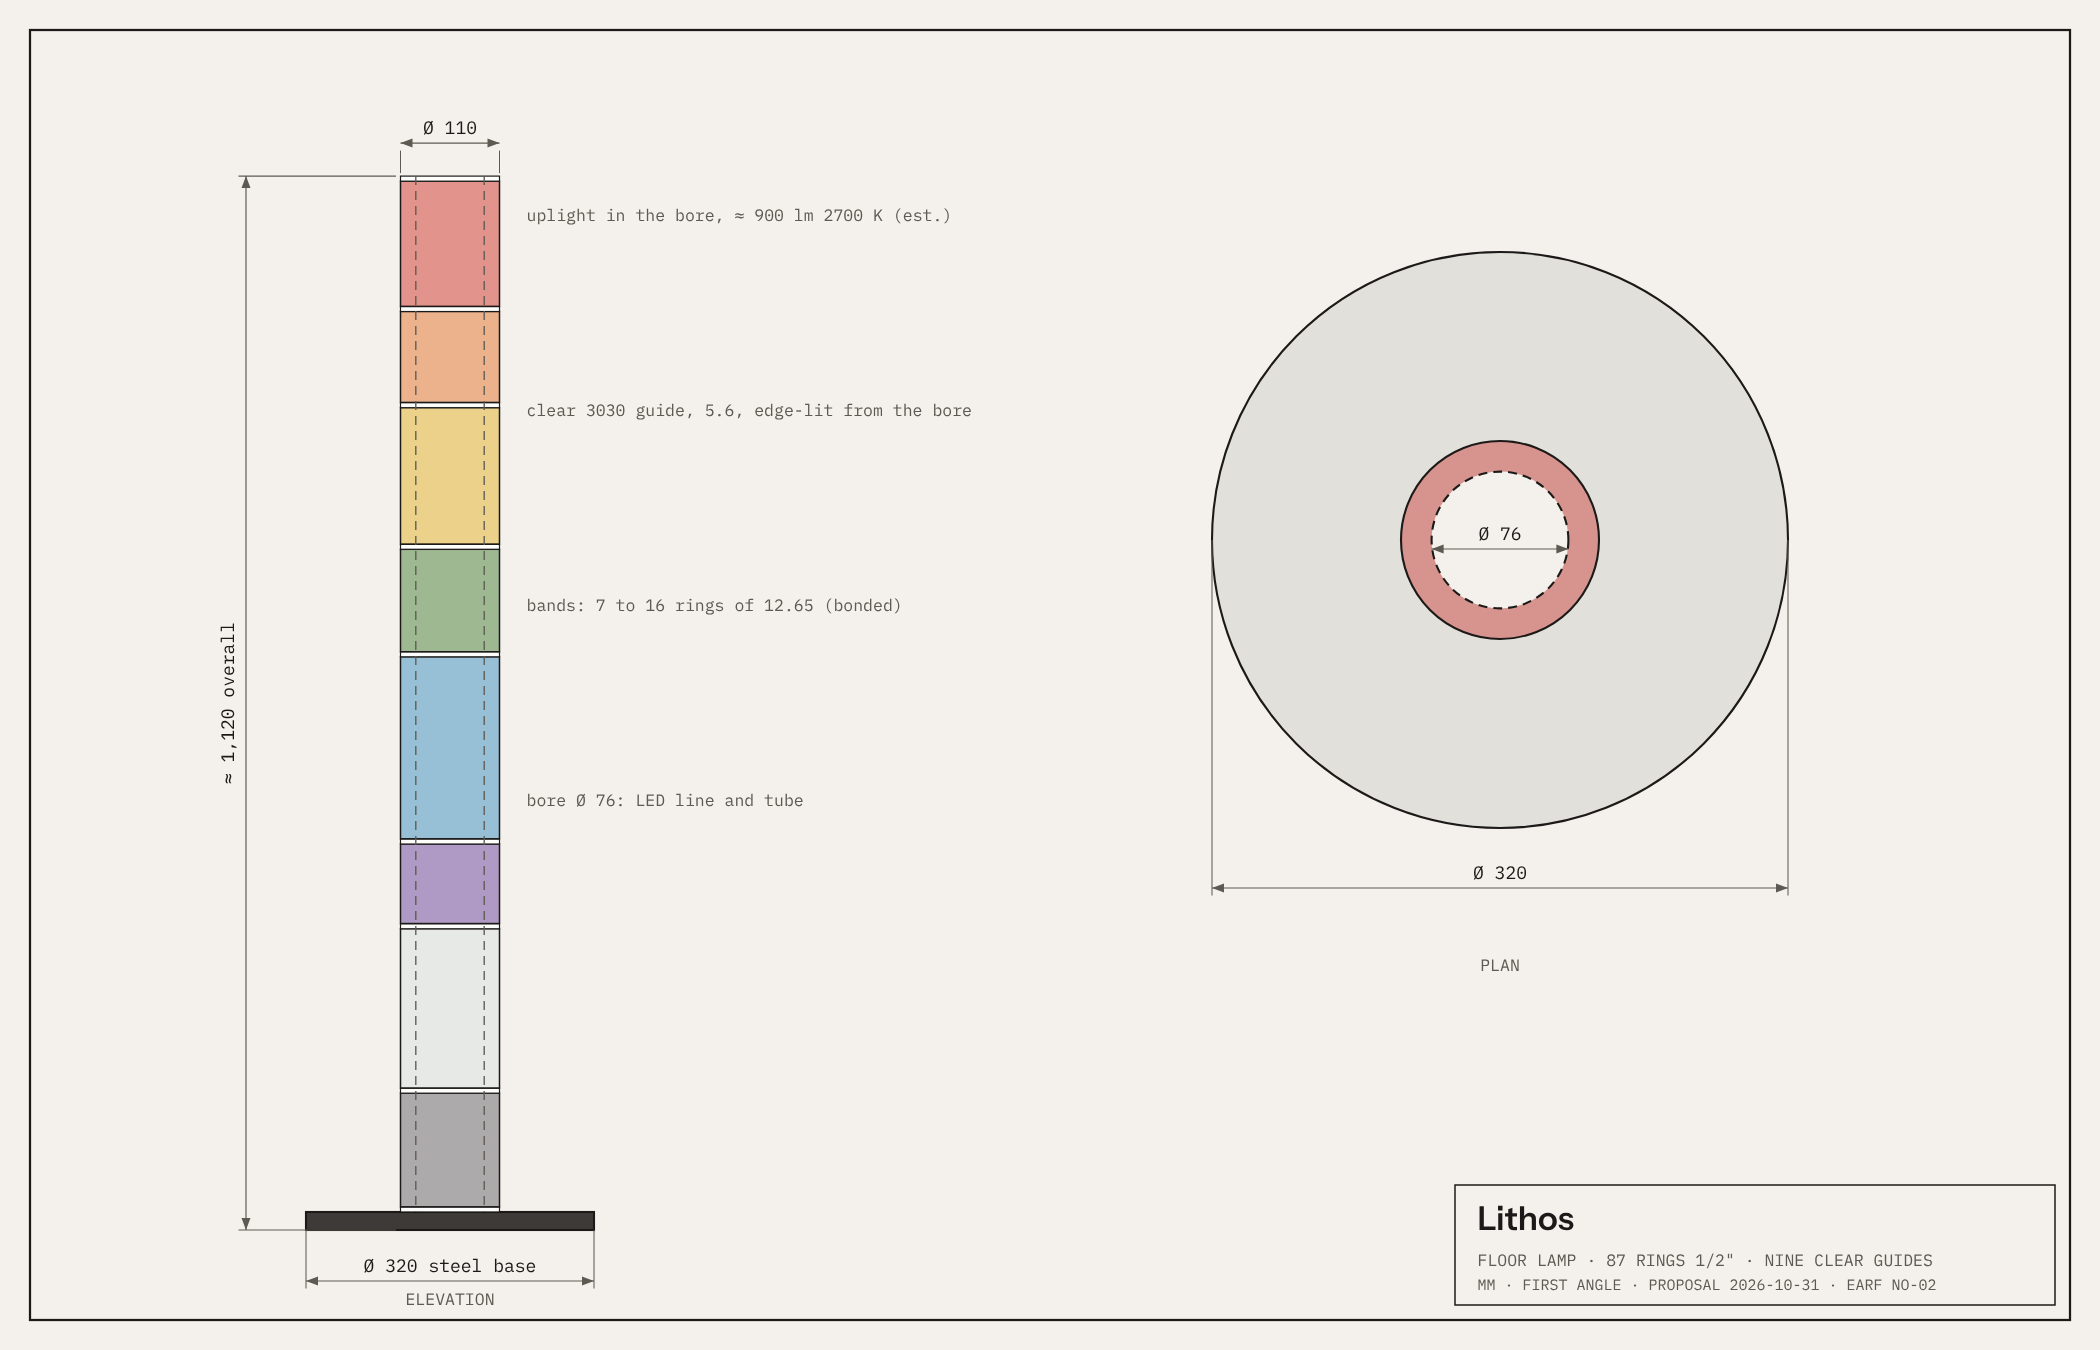
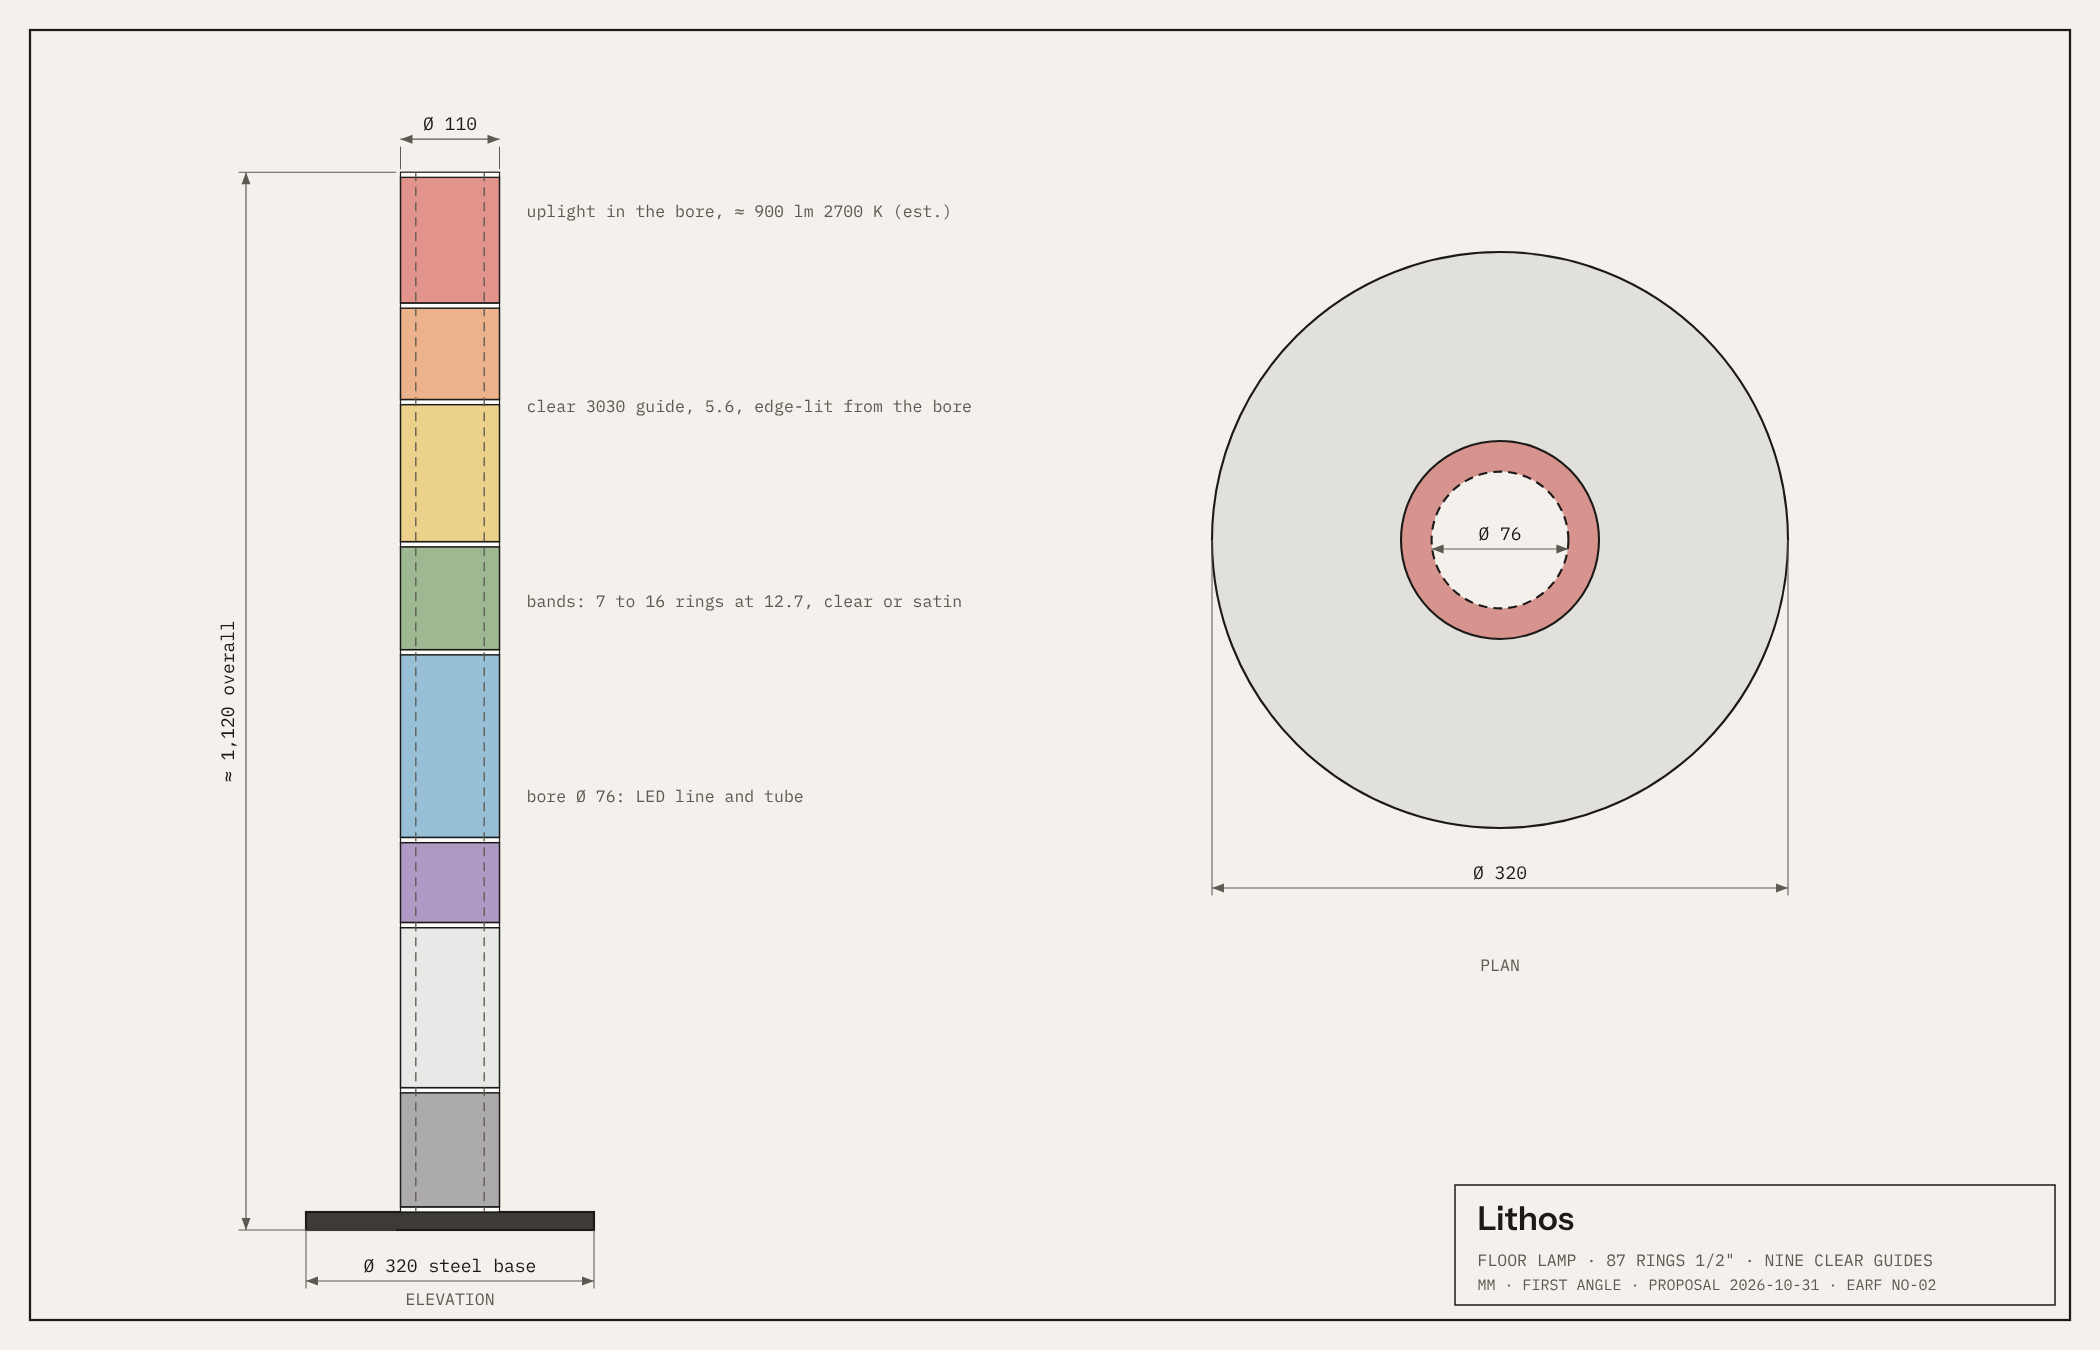
New objects: Lithos matched to the lamps lane's Core Sample (12.7 pitch, filament, clear and satin bands); captions name the near-black sections
Claude-Session: https://claude.ai/code/session_01BAaPTm6ZnW6Wr5zqpr5BWJ

diff --git a/spinoffs/barkhorn/brandbook/newobjects/six.py b/spinoffs/barkhorn/brandbook/newobjects/six.py
@@ -24,16 +24,18 @@ OBJECTS = [
        ('A felt-lined card tube with the tint card', lambda: 4)],
   price=135, role='The entry price: a gift, a Kickstarter add-on, a thing for every record shop counter.'),
  dict(key='lithos', name='Lithos', what='A floor lamp, a core sample', tag='Rock, in layers: a drill core stood on end.',
-  concept=("A column 110 mm across and 1.12 m tall, made of 87 rings of half-inch cast sheet in eight bands of the line's tints, in "
-           "uneven thicknesses like a real core. Between every band sits a quarter-inch layer of near-clear 3030 sheet. A warm LED line runs "
-           "inside a white tube in the bore, slotted only where the clear layers are, so light enters the clear layers and nothing else; their "
+  concept=("A column 110 mm across and 1.12 m tall, made of 87 rings of half-inch cast sheet at Core Sample's 12.7 mm pitch in eight bands of the line's tints, in "
+           "uneven thicknesses like a real core. Between every band sits a quarter-inch layer of near-clear 3030 sheet. Its light is Core Sample's own "
+           "filament (the lamps lane's table lamp, which Lithos is the big sibling of): a dim-to-warm LED strip on an aluminum spine inside an "
+           "opal tube, here masked except where the clear layers are, so light enters the clear layers and nothing else. As on Core Sample, "
+           "the bands alternate buffed clear and bead-blasted satin; their "
            "polished outer edges glow: **the boundaries between the strata are lines of light**, while the tinted bands stay deep (a deep tint "
            "lit from inside through 17 mm would barely glow: TruCast's 2423 passes 14% at 3.2 mm). An LED uplight in the top of the bore washes the ceiling, which is the light you "
            "read by. The column stands on a blackened steel disc."),
   dims=[('Column', 'Ø 110 mm outside, Ø 76 mm bore, 1,100 mm of acrylic'), ('Height overall', 'about 1,120 mm'), ('Base', 'blackened steel, Ø 320 × 20 mm'),
-        ('Bands', 'eight tints, 6 to 16 rings each (87 rings of 12.7 mm), with nine 5.6 mm clear light-guide layers'),
-        ('Light', 'uplight about 900 lm, 2700 K, CRI 90 (est.); a glow line about 6 W inside a white tube slotted at each clear guide; two channels, dimmable'), ('Weight', 'about 21 kg (acrylic 7 kg, base 12.6 kg; est.)'),
-        ('Listing', 'UL 153 (a portable lamp), with its own Class 2 driver')],
+        ('Bands', 'eight tints, 7 to 16 rings each (87 rings at 12.7 mm, as Core Sample), each band buffed clear or bead-blasted satin, with nine 5.6 mm clear light-guide layers'),
+        ('Light', 'uplight about 900 lm, 2700 K, CRI 90 (est.); 24 V plug-in; Core Sample\'s filament (dim-to-warm strip, aluminum spine, opal tube) masked except at each clear guide; two channels, dimmable'), ('Weight', 'about 21 kg (acrylic 7 kg, base 12.6 kg; est.)'),
+        ('Listing', 'UL 153 (a portable lamp), with its own Class 2 driver; heat checked against acrylic\'s limit, as Core Sample\'s spine runs about 64 °C against 70 °C')],
   process='Rings laser- or CNC-cut from sheet (their cores become Moho); bonded in eight bands with the clear guides between, annealed; bored and turned true; the outside polished; stacked on a threaded aluminum tube through the base.',
   bom=[('Sheet: 87 rings from 115 mm squares of 1/2"', lambda: sheet('1/2', 87 * 0.115**2)), ('Clear 3030 guides: nine from 1/4"', lambda: sheet('1/4', 9 * 0.115**2)),
        ('Ring cutting, outsourced, about $2 each', lambda: 96 * 2), ('Lamination in bands: 3 h', lambda: RATE * 3), ('Boring, turning, polishing: 3 h', lambda: RATE * 3),

diff --git a/spinoffs/barkhorn/brandbook/newobjects/build_page.py b/spinoffs/barkhorn/brandbook/newobjects/build_page.py
@@ -13,11 +13,11 @@ def md(t):
     return re.sub(r'\*\*(.+?)\*\*', r'<strong>\1</strong>', t)
 
 CAP = {
- 'moho': 'Render. Moho on a record: Ember, Dust and Acid under a Fog top, the brass core seen through them.',
- 'lithos': 'Render. Lithos lit: the clear guides glow between the eight bands; the uplight washes the ceiling.',
- 'ionos': 'Render. Ionos in Ice, its clear middle layer lit as a line; the top disc turns to tune.',
- 'cairn': 'Render. Cairn in Fog with one layer of Ember; sawn sides satin, faces polished.',
- 'bedrock': 'Render. Bedrock in Dust, the inch-thick end-plates stepped, three steel rails.',
+ 'moho': 'Render. Moho on a record: Ember, Dust and Acid under a Fog top, the brass core seen through them. Through the full 66 mm, stock 2423 Ember reads near-black, as it would in hand.',
+ 'lithos': 'Render. Lithos lit: the clear guides glow between the eight bands. In stock sheet the deep bands (Ember, Haze, Poison, Smoke) read near-black, as here. Rendered before the switch to Core Sample\'s filament and its clear-and-satin bands.',
+ 'ionos': 'Render. Ionos in Ice, its clear middle layer lit as a line; the top disc turns to tune. Through 200 mm of Ice the block reads blue-gray; the color lives at the edges.',
+ 'cairn': 'Render. Cairn in Fog with one layer of Ember; faces and sides polished. Seen edge-on, the Ember slab reads near-black.',
+ 'bedrock': 'Render. Bedrock in Dust, the inch-thick end-plates stepped, three steel rails. Dust (2422) stays warm and clear at this thickness.',
  'relief': 'Render. Relief in Fog on a white backing: the green deepens with each layer, like a sea chart in glass.',
  'meridian': 'Render. Meridian at ten past two: the Acid hour disc and the Ice minute disc cross, and where they overlap the light is green.',
 }

diff --git a/spinoffs/barkhorn/brandbook/newobjects/drawings.py b/spinoffs/barkhorn/brandbook/newobjects/drawings.py
@@ -81,7 +81,7 @@ def lithos():
     g = 5.6
     for i, (n, t) in enumerate(zip(counts, tints)):
         d.rect(x0 - 55 * k, y - g * k, 110 * k, g * k, fill='#FFFFFF', op=0.9, sw=0.8); y -= g * k
-        hh = n * 12.65 * k
+        hh = n * 12.7 * k
         d.rect(x0 - 55 * k, y - hh, 110 * k, hh, fill=TINT[t], op=0.45, sw=1); y -= hh
     d.rect(x0 - 55 * k, y - g * k, 110 * k, g * k, fill='#FFFFFF', op=0.9, sw=0.8); y -= g * k
     top = y
@@ -91,7 +91,7 @@ def lithos():
     d.dimh(x0 - 160 * k, x0 + 160 * k, base_y + 34, 'Ø 320 steel base', ext_from=base_y)
     d.text(x0 + 55 * k + 18, top + 30, 'uplight in the bore, ≈ 900 lm 2700 K (est.)', 11, 'start', MUTED)
     d.text(x0 + 55 * k + 18, top + 160, 'clear 3030 guide, 5.6, edge-lit from the bore', 11, 'start', MUTED)
-    d.text(x0 + 55 * k + 18, top + 290, 'bands: 7 to 16 rings of 12.65 (bonded)', 11, 'start', MUTED)
+    d.text(x0 + 55 * k + 18, top + 290, 'bands: 7 to 16 rings at 12.7, clear or satin', 11, 'start', MUTED)
     d.text(x0 + 55 * k + 18, top + 420, 'bore Ø 76: LED line and tube', 11, 'start', MUTED)
     cx, cy, s = 1000, 360, 1.2
     d.circle(cx, cy, 160 * s, fill=INK, op=0.08); d.circle(cx, cy, 55 * s, fill=TINT['ember'], op=0.4); d.circle(cx, cy, 38 * s, fill=PAPER, dash='6 4')

diff --git a/spinoffs/barkhorn/brandbook/newobjects/render_objects.py b/spinoffs/barkhorn/brandbook/newobjects/render_objects.py
@@ -269,8 +269,8 @@ def shot_lithos(sc):
         guides.append(z)
     for n, tn in zip(counts, tints):
         guide(z); z += 0.0056
-        ring(f'band{tn}', 0.055, 0.038, z + GAP / 2, n * 0.01265 - GAP, acrylic(tn), bond_top=acrylic(tn, 'bond'), bond_bottom=acrylic(tn, 'bond'))
-        z += n * 0.01265
+        ring(f'band{tn}', 0.055, 0.038, z + GAP / 2, n * 0.0127 - GAP, acrylic(tn), bond_top=acrylic(tn, 'bond'), bond_bottom=acrylic(tn, 'bond'))
+        z += n * 0.0127
     guide(z); z += 0.0056
     top = z
     # the bore: an aluminium tube, slotted at each guide, with the LED line inside: light leaves only into the guides

diff --git a/spinoffs/barkhorn/brandbook/newobjects/SIX.md b/spinoffs/barkhorn/brandbook/newobjects/SIX.md
@@ -46,17 +46,17 @@ Four discs of half-inch cast sheet, bonded into one puck 66 mm across and 51 mm 
 
 *Rock, in layers: a drill core stood on end.*
 
-A column 110 mm across and 1.12 m tall, made of 87 rings of half-inch cast sheet in eight bands of the line's tints, in uneven thicknesses like a real core. Between every band sits a quarter-inch layer of near-clear 3030 sheet. A warm LED line runs inside a white tube in the bore, slotted only where the clear layers are, so light enters the clear layers and nothing else; their polished outer edges glow: **the boundaries between the strata are lines of light**, while the tinted bands stay deep (a deep tint lit from inside through 17 mm would barely glow: TruCast's 2423 passes 14% at 3.2 mm). An LED uplight in the top of the bore washes the ceiling, which is the light you read by. The column stands on a blackened steel disc.
+A column 110 mm across and 1.12 m tall, made of 87 rings of half-inch cast sheet at Core Sample's 12.7 mm pitch in eight bands of the line's tints, in uneven thicknesses like a real core. Between every band sits a quarter-inch layer of near-clear 3030 sheet. Its light is Core Sample's own filament (the lamps lane's table lamp, which Lithos is the big sibling of): a dim-to-warm LED strip on an aluminum spine inside an opal tube, here masked except where the clear layers are, so light enters the clear layers and nothing else. As on Core Sample, the bands alternate buffed clear and bead-blasted satin; their polished outer edges glow: **the boundaries between the strata are lines of light**, while the tinted bands stay deep (a deep tint lit from inside through 17 mm would barely glow: TruCast's 2423 passes 14% at 3.2 mm). An LED uplight in the top of the bore washes the ceiling, which is the light you read by. The column stands on a blackened steel disc.
 
 | Dimension | |
 |---|---|
 | Column | Ø 110 mm outside, Ø 76 mm bore, 1,100 mm of acrylic |
 | Height overall | about 1,120 mm |
 | Base | blackened steel, Ø 320 × 20 mm |
-| Bands | eight tints, 6 to 16 rings each (87 rings of 12.7 mm), with nine 5.6 mm clear light-guide layers |
-| Light | uplight about 900 lm, 2700 K, CRI 90 (est.); a glow line about 6 W inside a white tube slotted at each clear guide; two channels, dimmable |
+| Bands | eight tints, 7 to 16 rings each (87 rings at 12.7 mm, as Core Sample), each band buffed clear or bead-blasted satin, with nine 5.6 mm clear light-guide layers |
+| Light | uplight about 900 lm, 2700 K, CRI 90 (est.); 24 V plug-in; Core Sample's filament (dim-to-warm strip, aluminum spine, opal tube) masked except at each clear guide; two channels, dimmable |
 | Weight | about 21 kg (acrylic 7 kg, base 12.6 kg; est.) |
-| Listing | UL 153 (a portable lamp), with its own Class 2 driver |
+| Listing | UL 153 (a portable lamp), with its own Class 2 driver; heat checked against acrylic's limit, as Core Sample's spine runs about 64 °C against 70 °C |
 
 **Materials and process.** Rings laser- or CNC-cut from sheet (their cores become Moho); bonded in eight bands with the clear guides between, annealed; bored and turned true; the outside polished; stacked on a threaded aluminum tube through the base.
 
